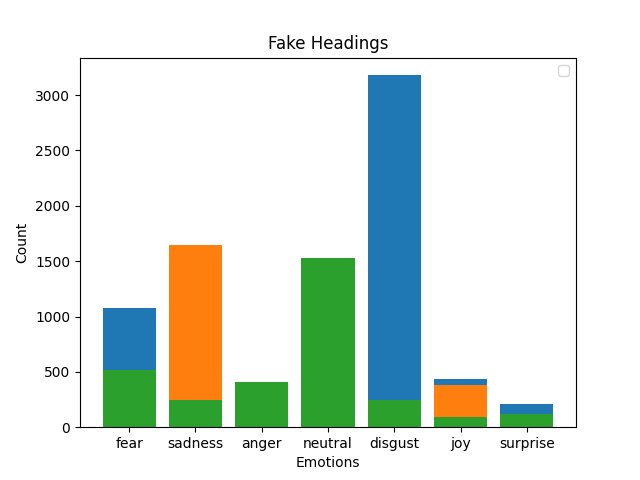
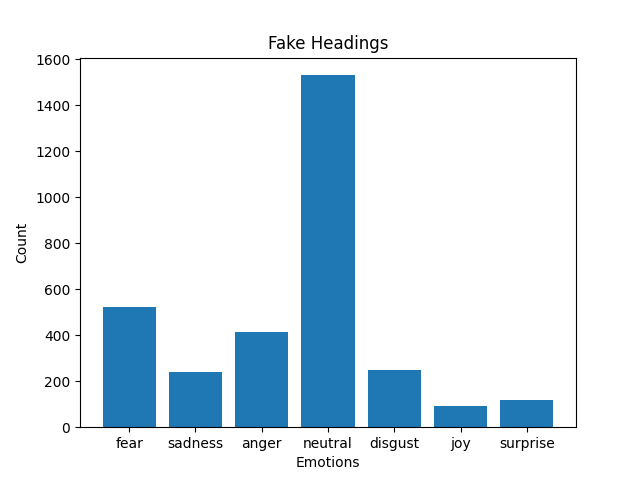
code

diff --git a/src/emotions.py b/src/emotions.py
@@ -15,7 +15,6 @@ def input_parse():
     # initialize the parser
     parser = argparse.ArgumentParser()
     parser.add_argument("--filepath", type=str) # argument is filepath as a string
-    parser.add_argument("--column", type = str) # argument is for column either title or text
     args = parser.parse_args()
 
     return args
@@ -43,11 +42,11 @@ def filtering(data):
     return data_filtered_real, data_filtered_fake
 
 
-def data_cleaning(data, data_filtered_real, data_filtered_fake, args):
+def data_cleaning(data, data_filtered_real, data_filtered_fake):
     print("Selecting column")
-    all_texts = data[args.column] # Only selecting column "title" and storing in headlines
-    real_texts = data_filtered_real[args.column]
-    fake_texts = data_filtered_fake[args.column]
+    all_texts = data["title"] # Only selecting column "title" and storing in headlines
+    real_texts = data_filtered_real["title"]
+    fake_texts = data_filtered_fake["title"]
     
     return all_texts, real_texts, fake_texts
 
@@ -91,18 +90,19 @@ def splitting_dictionary(emotion_count, real_emotion_count, fake_emotion_count):
     fake_count = list(fake_emotion_count.values())
 
     return all_emotions, all_count, real_emotions, real_count, fake_emotions, fake_count
+
     
 def visualization_bar(emotions, count, title, folder = "figs"):
     print("Visualizing bar plots")
     plt.bar(range(len(emotions)), count, tick_label=emotions)
     plt.xlabel("Emotions")
     plt.ylabel("Count")
-    plt.legend()
     plt.title(title)
     plt.show()
 
     filename = os.path.join(folder, title.replace(' ', '_') + '.png')
     plt.savefig(filename)
+    plt.clf()
 
 def visualization_scatter(all_emotions, all_count, real_emotions, real_count, fake_emotions, fake_count, folder = "figs"):
     print("Visualizing scatterplot")
@@ -124,13 +124,14 @@ def visualization_scatter(all_emotions, all_count, real_emotions, real_count, fa
 
     filename = os.path.join(folder, "scatterplot" + '.png')
     plt.savefig(filename)
+    plt.clf()
 
 def main_function():
     args = input_parse()
     data = loading_data(args)
     classifier = pre_trained_model()
     data_filtered_real, data_filtered_fake = filtering(data)
-    all_texts, real_texts, fake_texts = data_cleaning(data, data_filtered_real, data_filtered_fake, args)
+    all_texts, real_texts, fake_texts = data_cleaning(data, data_filtered_real, data_filtered_fake)
     emotion_list, real_list, fake_list = emotion_loops(classifier, all_texts, real_texts, fake_texts)
     emotion_count, real_emotion_count, fake_emotion_count = emotion_occurance(emotion_list, real_list, fake_list)
     all_emotions, all_count, real_emotions, real_count, fake_emotions, fake_count = splitting_dictionary(emotion_count, real_emotion_count, fake_emotion_count)

diff --git a/README.md b/README.md
@@ -33,13 +33,20 @@ You should write code and documentation which addresses the following tasks:
 
 # Discussion
 
-## Visualization One
+## All Emotions Bar
+- This bar plot gives an overview of the general distripution of emotions for all headings. A vast majority of the headings are classified as neutral, followed by fear, anger, sadness, disgust, surprise, and than joy. 
+## Real Emotions Bar
+-  This bar plot shows the distripution of emotions for real news articles. Again, the vast majority are categorised as neutral, followed by the same ranking of emotions as the previous plot. 
+## Fake Emotions Bar
+- This bar plot shows the distripution of emotions for all the fake news articles. The majority are categorised as neutral, but here disgust is slightly bigger than, sadness. 
+## All, Real, Fake Emotions Scatterplot
+- This scatterplot shows all three categorises (all, real, fake) in one plot. This plot clearly displays how common the emotion label, is for each category. It also shows how real and fake headlines, nearly are identical for each emotion.
 
-## Visualization Two
+## Discussion 
+- By using the plots I can clearly state the the majority of emotions are classified as netural. This could lead to the assumption that the headlines are mostly factual, and the author not using emotion to try to sway the reader in a certain direction. Another clearly statement, which can be made, is that mostly negative emotions are used in news headlines, such as fear and anger. This portays nicely to the "real world", where most news articles are of murders or problems in society. 
 
-## Visualization Three
-
-## Visualization Four
+### Future analysis 
+- It could be interesting to use POS, to see which kinds of words are used in the headline that give an emotion. By doing so, you could also see which emotion charged word is used the most.
 
 # Usage
 
@@ -47,12 +54,5 @@ To use the script I have created follow these steps, after cloning the repositor
 
 1. Get the data from Kaggle: https://www.kaggle.com/datasets/jillanisofttech/fake-or-real-news and store it in the data folder.
 2. Run bash setup.sh in the command line, which will create a virutal environment, and install the nessecary requirements. 
-3. OBS! Write the filepath to where you have stored the data, if you haven't stored it in the data folder: In the commandline run python3 src/emotions.py --filepath ./data/fake_or_real.csv
+3. OBS! Write the filepath to where you have stored the data, if you haven't stored it in the data folder: In the commandline run python3 src/emotions.py --filepath ./data/fake_or_real_news.csv
 4. After the code has run, the vizualizations will be stored in the folder figs.
-
-
-
-## Tips
-- I recommend using ```j-hartmann/emotion-english-distilroberta-base``` like we used in class.
-- Spend some time thinking about how best to present you results, and how to make your visualisations appealing and readable.
-- **MAKE SURE TO UPDATE YOUR README APPROPRIATELY!**
